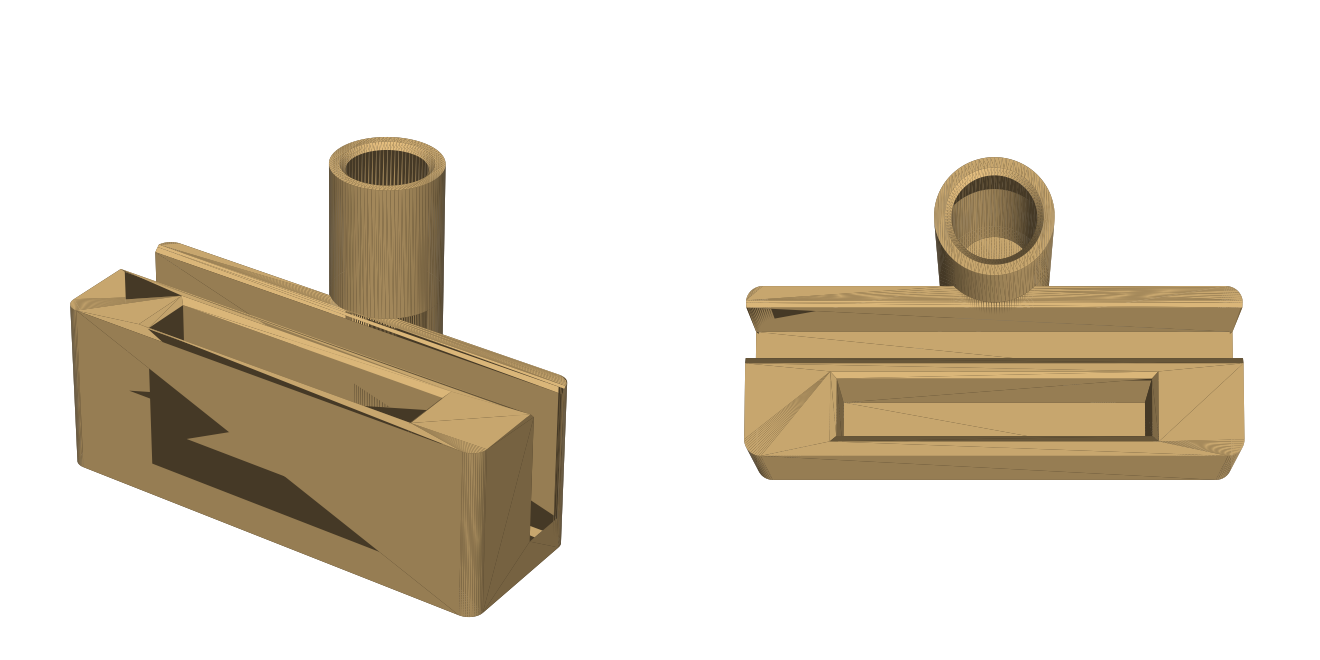
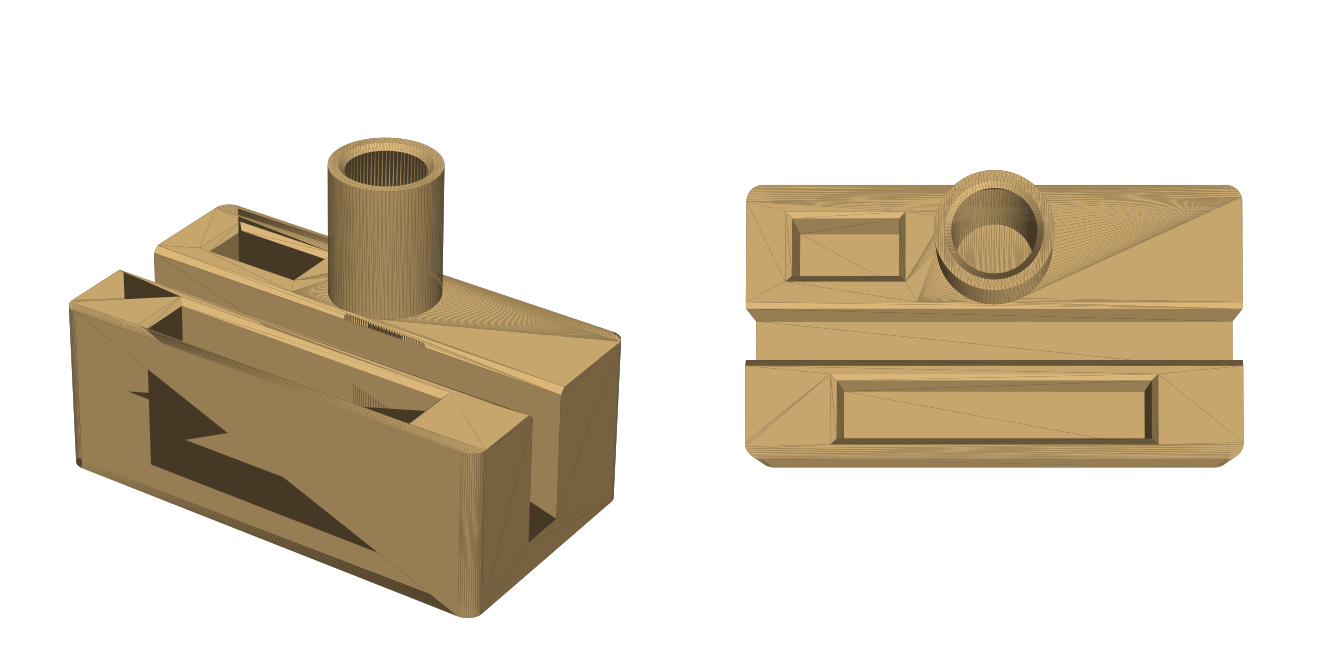
Add USB stick slot beside the pen tower
Fill the back row to a full rectangle (same footprint as before) and cut a
26x14x35 slot for USB sticks / receivers.

Claude-Session: https://claude.ai/code/session_013Hi1mb9xuqoBUH8umXAPND

diff --git a/tablet-storage/README.md b/tablet-storage/README.md
@@ -1,6 +1,6 @@
 # XPPen Deco Pro LW (Gen 2) 竖立收纳座 (无盖)
 
-平板 / 快捷键遥控器 (ACK05) / 数位笔 全部竖着插, 占地约 **120 × 65 mm**, 高 80 mm。
+平板 / 快捷键遥控器 (ACK05) / 数位笔 全部竖着插, 占地约 **120 × 66 mm**, 高 80 mm。
 
 | 文件 | 说明 |
 |---|---|
@@ -13,6 +13,7 @@
 - 平板槽: 宽 12.4 (平板厚 10.66), 深 36, 两端贯通 — 平板 333 mm 长边朝下, 左右悬出
 - 遥控器槽: 14.0 × 76.0, 深 40 — 短边 (平坦一侧) 朝下, 转盘朝上
 - 笔孔: Ø20, 深 74, 笔尾朝下、笔尖朝上
+- U 盘槽 (笔塔左侧): 26 × 14, 深 35 — 一般 U 盘 / 无线接收器竖着插, 约露出一半
 
 ## 建议切片设置 (P1S)
 PLA 或 PETG, 0.20 mm, 4 层墙, 15% 填充, 不需要支撑。模型已居中放在热床上。
